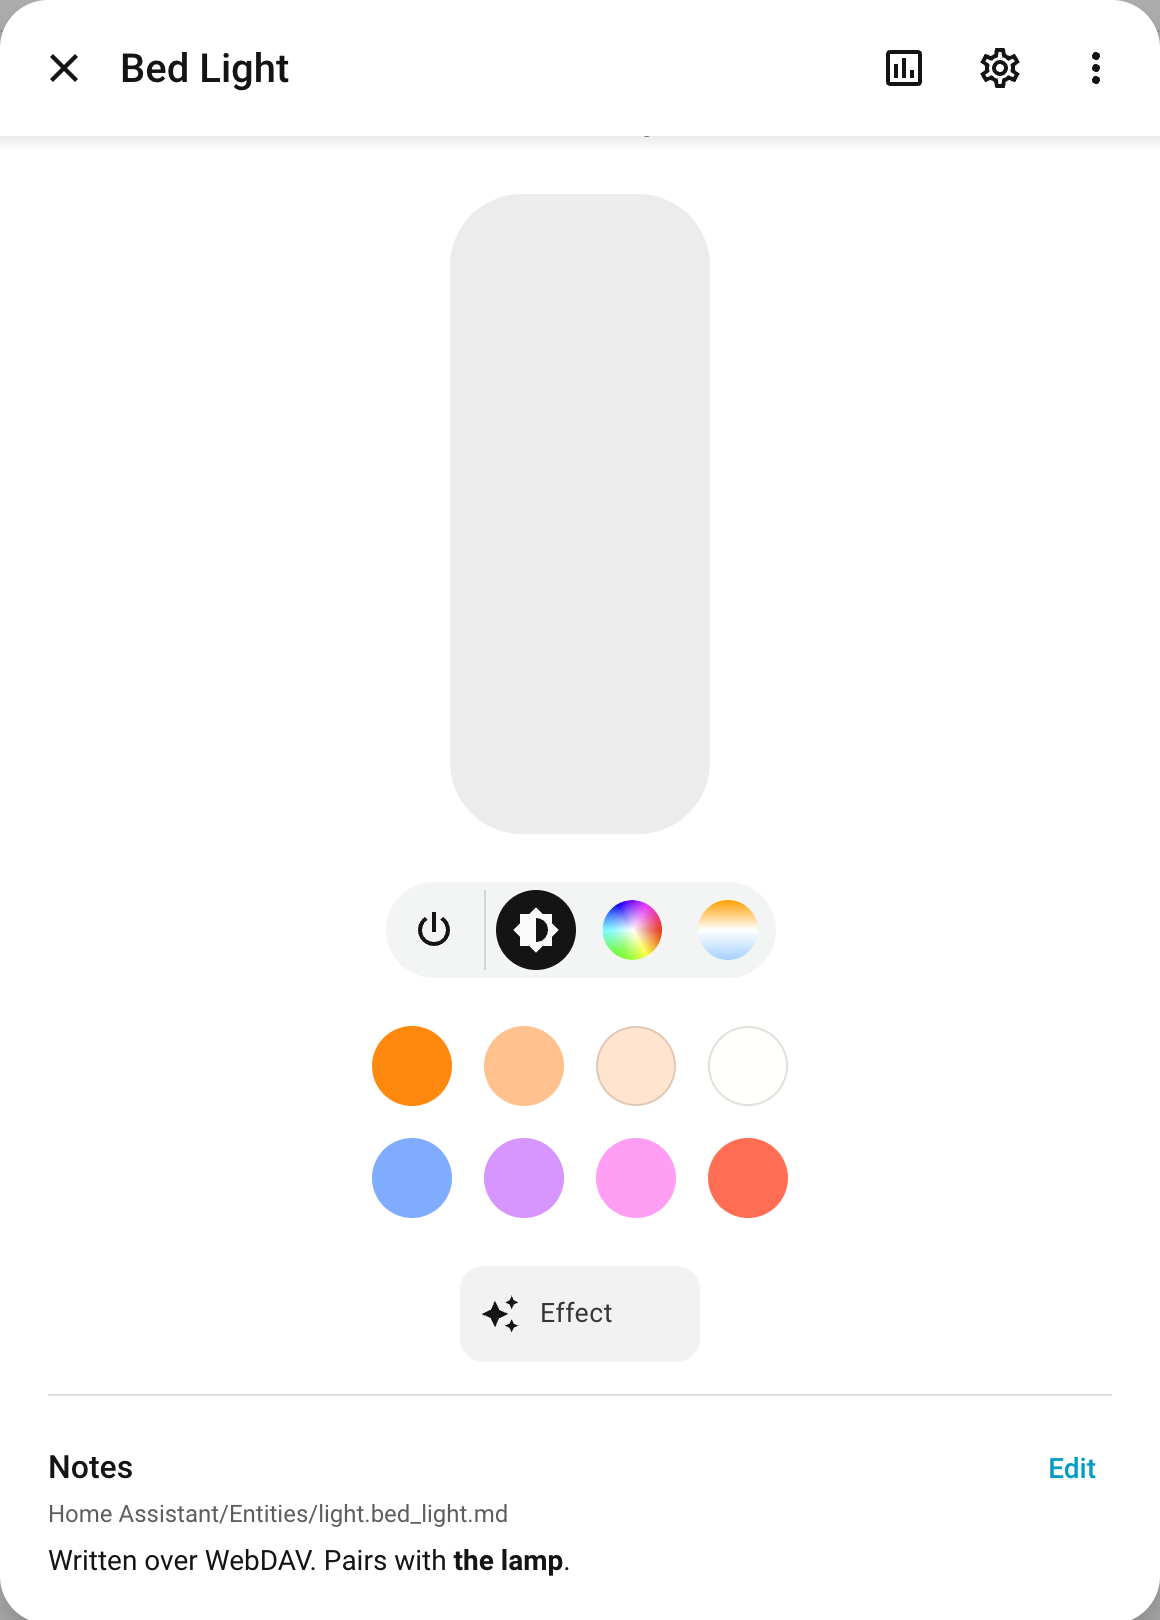
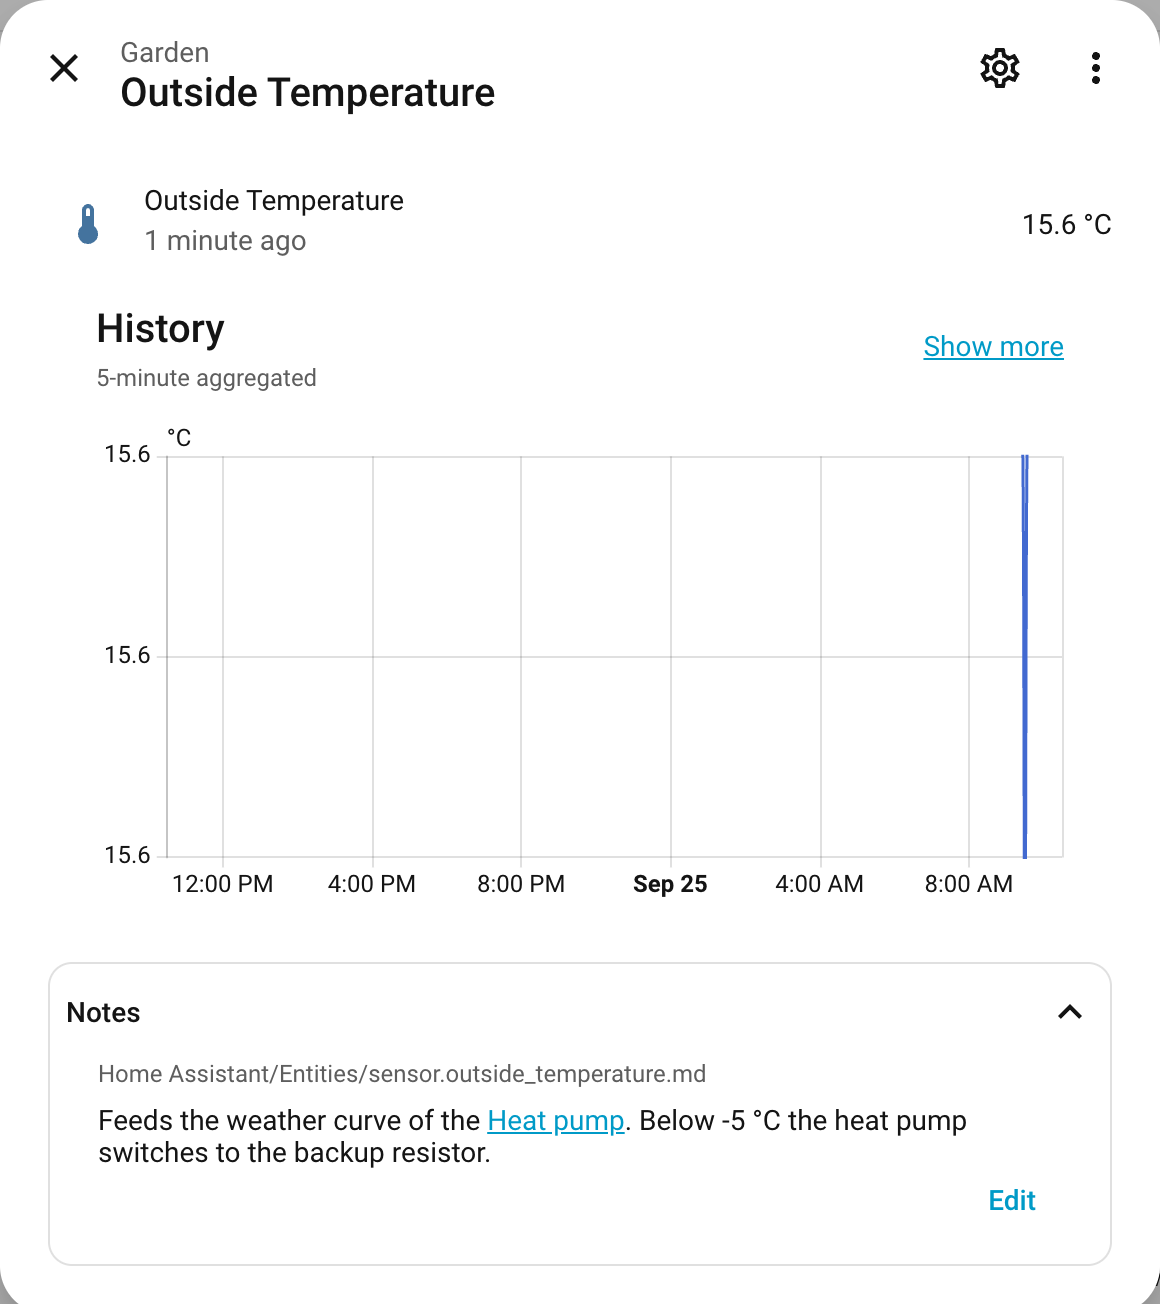
Update the README screenshots
Taken on a demo install with notes that link devices, areas and notes of their own the way a real home would, and with the account numbers, serials and plate of the real integrations on it renamed or masked. Adds a shot of the Notes panel and one of starting a note from a template.

diff --git a/README.md b/README.md
@@ -32,10 +32,15 @@ Notes Vault keeps a folder of Markdown files inside your Home Assistant config d
 
 ## What you get
 
+<p align="center">
+  <img src="docs/images/panel.png" alt="The Notes panel in Home Assistant. On the left, the vault as a tree: the user's own Home folder with Electrical panel and Network, then the generated Areas. On the right, the Heat pump note with its location, purchase details, maintenance log and quirks, linking to the Ecobee thermostat, the outside temperature sensor and the energy contract, with a Go to device button and the notes that link to it underneath.">
+  <br><em>The Notes panel: every note in the vault, with the ones linking to it.</em>
+</p>
+
 <table>
   <tr>
-    <td width="60%"><img src="docs/images/device-page.png" alt="A Home Assistant device page for Bed Light with a Notes card under Device info. The note says the bulb was swapped for a warm 2700K one, with a link to light.bed_light and a mention of the Bedroom."></td>
-    <td width="40%"><img src="docs/images/more-info.png" alt="The more-info dialog of the Bed Light entity, with a Notes section at the bottom showing the path of the note in the vault and its text."></td>
+    <td width="60%"><img src="docs/images/device-page.png" alt="The Heat pump device page in Home Assistant with a Notes card under Device info, showing where the unit is and its purchase and warranty details, with links to the Garden area and the Yearly maintenance note."></td>
+    <td width="40%"><img src="docs/images/more-info.png" alt="The more-info dialog of the Outside Temperature sensor, with a Notes section under the history graph saying it feeds the weather curve of the Heat pump, which is a link."></td>
   </tr>
   <tr>
     <td><em>A Notes card on every device and area page.</em></td>
@@ -159,6 +164,10 @@ Obsidian-side MCP servers such as [mcp-obsidian](https://github.com/MarkusPfunds
 Every generated note starts out holding its template, so opening `Kitchen.md` in Obsidian gives you the headings to fill in. A note whose body is still exactly its template counts as empty: Home Assistant shows **No notes yet**, filters can remove it, and it's deleted along with its entity. The moment you write in it, it's yours. Edit a template and every note still holding the old one is updated to match, and none of the others.
 
 In Home Assistant, **Add note** starts from the same template, and a **Template** dropdown switches to another one or to a blank note.
+
+<p align="center">
+  <img src="docs/images/template.png" width="420" alt="Starting a note on the Ceiling Lights entity: the Template dropdown is set to Light, and the editor holds its headings: Fixture with bulb, socket, wattage, wall switch and circuit breaker, then Replacement log and Quirks.">
+</p>
 
 Templates are Markdown files in `Home Assistant/Templates/`, so you edit them in Obsidian like any other note (and Obsidian's own Templates plugin can use the same folder). The defaults cover the common cases:
 
